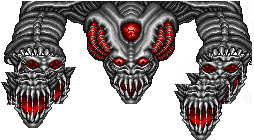
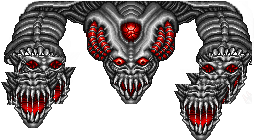
Segundo boss con cuerpo

Changed region(s): [[0.8819, 0.0, 0.9646, 0.1143], [0.0551, 0.0, 0.1654, 0.1143]]

diff --git a/ContraRemake/Client/View/BossView.cpp b/ContraRemake/Client/View/BossView.cpp
@@ -16,7 +16,7 @@ BossView::BossView(GameView* _gameView) {
 	bosslevel1[BOSS1_CLOSE_EYE] = new Sprite(gameView, "../.images/bosses/1/closeEye.png",  129, 97, 258, 194);
 	bosslevel1[BOSS1_SHOOT] = new Sprite(gameView, "../.images/bosses/1/shoot.png",  129, 97, 258, 194);
 	bosslevel1[BOSS1_UNDERGROUND1] = new Sprite(gameView, "../.images/bosses/1/underground1.png", 129, 97, 258, 194);
-	bosslevel1[BOSS1_UNDERGROUND2] = new Sprite(gameView, "../.images/bosses/1/underground2.png",  129, 97, 258, 194);
+	bosslevel1[BOSS1_UNDERGROUND2] = new Sprite(gameView, "../.images/bosses/1/undergroumd2.png",  129, 97, 258, 194);
 	bosslevel1[BOSS1_GETTING_DMG] = new Sprite(gameView, "../.images/bosses/1/gettingDmg.png",129, 97, 258, 194);
 	bosslevel1[BOSS1_DEAD] = new Sprite(gameView, "../.images/bosses/1/dead.png",  129, 97,  258, 194);
 
@@ -26,6 +26,7 @@ BossView::BossView(GameView* _gameView) {
 	bosslevel2[BOSS2_GETTING_DMG] = new Sprite(gameView, "../.images/bosses/2/gettingDmg.png",254,140,504,208);
 	bosslevel2[BOSS2_SHOOT] = new Sprite(gameView, "../.images/bosses/2/shoot.png",254,140,504,208);
 	bosslevel2[BOSS2_DEAD] = new Sprite(gameView, "../.images/bosses/2/dead.png",254,64,504,128);
+	bosslevel2[BOSS2_BODY] = new Sprite(gameView, "../.images/bosses/2/body.png",129,180,258,360);
 
 	bosslevel3[BOSS3_STANDING] = new Sprite(gameView, "../.images/bosses/3/standing.png",99,112,99,112);
 	bosslevel3[BOSS3_ATTACKING] = new Sprite(gameView, "../.images/bosses/3/attacking.png",99,112,99,112);
@@ -40,13 +41,17 @@ BossView::BossView(GameView* _gameView) {
 
 void BossView::render(int _id, int state, int pos_x, int pos_y)
 {
-	sprites[_id][state]->render(pos_x, pos_y);
+	if( _id == 1 ) sprites[1][BOSS2_BODY]->render(271,0);
 
+	sprites[_id][state]->render(pos_x, pos_y);
 }
 
-void BossView::update(int player_id, int state)
+void BossView::update(int _id, int state)
 {
-	sprites[player_id][state]->update();
+	sprites[_id][state]->update();
+
+	if( _id == 1 && state== 1) sprites[1][BOSS2_BODY]->update();
+
 }
 
 void BossView::destroy()
